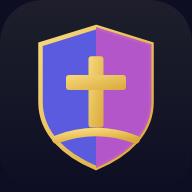
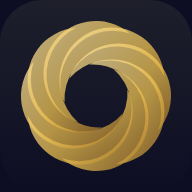
Brasão dourado, receitas explícitas, compartilhar arquivos de outros apps e manifesto de instalação
- Brasão: rosácea dourada de oito luas entrelaçadas (scripts/gerar-brasao.mjs
  gera public/brasao.svg e as pétalas do componente BrasaoPadrao); ícones PNG
  regenerados. Substitui o escudo com cruz.
- Receitas: alternância Despesa/Receita no topo de Lançar, título e dicas
  conforme a natureza, atalho "Lançar receita" na página do tipo Receitas,
  dica na aba Receitas do Orçamento. Receita prevista passa a usar o salário
  planejado no Orçamento quando houver (back-end e demo); teste novo.
- Compartilhar: Web Share Target no manifest (./compartilhar) + sw-compartilhar.js
  importado no service worker; PDF/imagem/texto recebidos de WhatsApp ou dos
  apps de luz e água abrem direto em Lançar (fatura, foto ou texto).
- Manifest: id e display_override para instalação como app no celular.
- Guia da família atualizado.

Claude-Session: https://claude.ai/code/session_0191uyXy852VQqaeRfUkqyRT

diff --git a/app/src/paginas/Lancar.tsx b/app/src/paginas/Lancar.tsx
@@ -12,6 +12,7 @@ import { competenciaDosFiltros, useBoot, useSessao } from '../store/sessao'
 import type { Categoria, ContaAPagar, Lancamento, LeituraExtraida, OrigemLancamento, RegraLoja } from '../tipos'
 import { dataBr, moeda } from '../util/formato'
 import { extrairDeTexto } from '../util/extrator'
+import { lerCompartilhado } from '../util/compartilhado'
 import { Cabecalho } from '../componentes/Cabecalho'
 import { Icone } from '../componentes/Icone'
 import { useLancarFrequentes } from '../hooks/useLancarFrequentes'
@@ -50,7 +51,8 @@ export default function Lancar() {
   const modoParam = params.get('modo') as Modo | null
   const ehDependente = usuario.perfil === 'Dependente'
 
-  const [modo, setModo] = useState<Modo>(() => (editando ? 'digitar' : modoParam && MODOS.includes(modoParam) && !(modoParam === 'fatura' && ehDependente) ? modoParam : 'foto'))
+  const [modo, setModo] = useState<Modo>(() => (editando ? 'digitar' : modoParam && MODOS.includes(modoParam) && !(modoParam === 'fatura' && ehDependente) ? modoParam : params.get('tipo') === 't_receitas' ? 'digitar' : 'foto'))
+  const [compartilhado, setCompartilhado] = useState<File | null>(null)
   const [rascunho, setRascunho] = useState<Rascunho>(() => (editando ? rascunhoDeLancamento(lancamentoEdicao) : rascunhoVazio(usuario.id, origemDe(modo))))
   const [sugestao, setSugestao] = useState<string | undefined>(() => (editando ? lancamentoEdicao.categoria_id : undefined))
   const [aba, setAba] = useState<AbaCardapio>(() => (editando ? abaDe(categorias.find((c) => c.id === lancamentoEdicao.categoria_id)) : params.get('tipo') === 't_receitas' ? 't_receitas' : 't_variaveis'))
@@ -63,6 +65,33 @@ export default function Lancar() {
   const categoria = useMemo(() => categorias.find((c) => c.id === rascunho.categoria_id), [categorias, rascunho.categoria_id])
   const categoriaSugerida = useMemo(() => categorias.find((c) => c.id === sugestao), [categorias, sugestao])
   const ehReceita = categoria ? categoria.tipo === 'receita' : aba === 't_receitas'
+
+  // Arquivo ou texto que chegou pelo "Compartilhar" de outro app (WhatsApp, app da luz, da água…).
+  useEffect(() => {
+    if (params.get('compartilhado') !== '1' || editando) return
+    let cancelado = false
+    lerCompartilhado().then(({ arquivo, texto }) => {
+      if (cancelado) return
+      if (arquivo && arquivo.type === 'application/pdf') {
+        if (ehDependente) { avisar('Faturas em PDF são lançadas por um adulto da família.', { tipo: 'info' }); return }
+        setModo('fatura'); setCompartilhado(arquivo)
+      } else if (arquivo && arquivo.type.startsWith('image/')) {
+        setModo('foto'); mudar({ origem: 'foto' }); setCompartilhado(arquivo)
+      } else if (texto) {
+        setModo('falar'); aoTextoVoz(texto)
+      } else {
+        avisar('Não recebi nenhum arquivo. Compartilhe de novo escolhendo o Finanças da Família.', { tipo: 'info' })
+      }
+    })
+    return () => { cancelado = true }
+  }, []) // eslint-disable-line react-hooks/exhaustive-deps
+
+  /** Alterna entre lançar despesa e receita: muda a aba do cardápio e limpa a categoria se não combinar. */
+  function escolherNatureza(receita: boolean) {
+    setAba(receita ? 't_receitas' : 't_variaveis')
+    if (categoria && (categoria.tipo === 'receita') !== receita) mudar({ categoria_id: '' })
+    if (receita && (modo === 'fatura' || modo === 'foto')) mudarModo('digitar')
+  }
 
   // ?editar= sem o lançamento no state (recarregou a página): volta ao Painel.
   useEffect(() => { if (editarId && !lancamentoEdicao) nav('/', { replace: true }) }, [editarId, lancamentoEdicao, nav])
@@ -157,9 +186,16 @@ export default function Lancar() {
 
   return (
     <>
-      <Cabecalho titulo={editando ? 'Editar lançamento' : 'Lançar despesa'} subtitulo={editando ? 'Corrija o que for preciso e salve.' : 'Escolha como lançar. O tipo de despesa vem do cardápio abaixo.'} voltarPara={editando ? '' : undefined} />
+      <Cabecalho titulo={editando ? 'Editar lançamento' : ehReceita ? 'Lançar receita' : 'Lançar despesa'} subtitulo={editando ? 'Corrija o que for preciso e salve.' : ehReceita ? 'Salário, renda extra, aluguel recebido, reembolso… A categoria vem do cardápio abaixo.' : 'Escolha como lançar. O tipo de despesa vem do cardápio abaixo.'} voltarPara={editando ? '' : undefined} />
 
-      {!editando && (
+      {!editando && !pronto && (
+        <div className="tabs" role="radiogroup" aria-label="Natureza do lançamento" style={{ maxWidth: 360 }}>
+          <button type="button" role="radio" aria-checked={!ehReceita} onClick={() => escolherNatureza(false)}><Icone nome="arrow-down" tamanho={16} /> Despesa</button>
+          <button type="button" role="radio" aria-checked={ehReceita} onClick={() => escolherNatureza(true)}><Icone nome="arrow-up" tamanho={16} /> Receita</button>
+        </div>
+      )}
+
+      {!editando && !ehReceita && (
         <div className="methods">
           {metodos.map((m) => (
             <button key={m.id} type="button" className="method" aria-pressed={modo === m.id} onClick={() => mudarModo(m.id)}>
@@ -185,7 +221,7 @@ export default function Lancar() {
         <div className="entry" style={{ gridTemplateColumns: 'minmax(0, 640px)' }}>
           <div className="card">
             <h3>Dados lidos da fatura <span className="sub">PDF ou foto</span></h3>
-            <EnviarFatura contasFixas={contas_fixas} competenciaPadrao={competenciaDosFiltros(filtros)} avisar={avisar} aoSalvar={aoSalvarFatura} autoAbrir={modoParam === 'fatura'} />
+            <EnviarFatura contasFixas={contas_fixas} competenciaPadrao={competenciaDosFiltros(filtros)} avisar={avisar} aoSalvar={aoSalvarFatura} autoAbrir={modoParam === 'fatura' && !compartilhado} arquivoInicial={compartilhado} />
           </div>
         </div>
       ) : (
@@ -193,7 +229,7 @@ export default function Lancar() {
           <DadosDespesa
             titulo={modo === 'foto' ? 'Dados lidos do cupom' : editando ? 'Dados do lançamento' : 'Dados da despesa'}
             lido={lido}
-            topo={modo === 'foto' ? <CapturaFoto aoLer={aoLerFoto} aoErro={(m) => avisar(m, { tipo: 'erro' })} autoAbrir={modoParam === 'foto'} /> : modo === 'falar' ? <CapturaVoz aoTexto={aoTextoVoz} /> : undefined}
+            topo={modo === 'foto' ? <CapturaFoto aoLer={aoLerFoto} aoErro={(m) => avisar(m, { tipo: 'erro' })} autoAbrir={modoParam === 'foto' && !compartilhado} arquivoInicial={compartilhado} /> : modo === 'falar' ? <CapturaVoz aoTexto={aoTextoVoz} /> : undefined}
             rascunho={rascunho}
             aoMudar={mudar}
             cartoes={cartoes}
@@ -211,7 +247,7 @@ export default function Lancar() {
               <p>
                 {podeConfirmar
                   ? <>Lançar <b className="num">{moeda(rascunho.valor)}</b> em <b>{categoria!.nome}</b>{rascunho.parcelas > 1 && rascunho.forma_pgto === 'crédito' && !editando && <> · <span className="num">{rascunho.parcelas}x</span></>}</>
-                  : !rascunho.valor ? 'Informe o valor para continuar.' : 'Escolha a despesa no cardápio.'}
+                  : !rascunho.valor ? 'Informe o valor para continuar.' : ehReceita ? 'Escolha a receita no cardápio.' : 'Escolha a despesa no cardápio.'}
               </p>
               <button type="button" className="btn btn-primary" onClick={confirmar} disabled={!podeConfirmar || salvando}>
                 <Icone nome="check" />{salvando ? 'Salvando…' : editando ? 'Salvar alterações' : 'Confirmar lançamento'}

diff --git a/app/src/index.css b/app/src/index.css
@@ -80,7 +80,7 @@ svg.i { width: 18px; height: 18px; stroke-width: 1.75; flex: none; }
 .brand { display: flex; gap: 12px; align-items: center; }
 .crest { width: 46px; height: 46px; border-radius: 50%; background: linear-gradient(145deg, #2A2B5E, #16173A); border: 1.5px solid var(--gold); display: grid; place-items: center; flex: none; overflow: hidden; }
 .crest svg, .crest img { width: 100%; height: 100%; object-fit: cover; }
-.crest svg { width: 30px; height: 30px; }
+.crest svg { width: 34px; height: 34px; }
 .brand h1 { font-size: 15px; font-weight: 700; line-height: 1.2; margin: 0; color: #fff; }
 .brand small { display: block; color: #8E90A2; font-size: 11.5px; font-weight: 400; }
 .verse { font-size: 11.5px; color: #8E90A2; font-style: italic; border-left: 2px solid var(--gold); padding-left: 10px; line-height: 1.5; margin: 0; }
@@ -203,7 +203,7 @@ svg.chart { width: 100%; height: auto; display: block; }
 .seg button[aria-pressed='true'] { background: var(--indigo); border-color: var(--indigo); color: #fff; }
 .tabs { display: flex; gap: 4px; background: var(--card-2); padding: 4px; border-radius: 10px; width: max-content; max-width: 100%; margin-bottom: 14px; overflow-x: auto; scrollbar-width: none; }
 .tabs button { padding: 6px 14px; border-radius: 7px; font-size: 13px; color: var(--muted); white-space: nowrap; min-height: 36px; }
-.tabs button[aria-selected='true'] { background: var(--indigo); color: #fff; }
+.tabs button[aria-selected='true'], .tabs button[aria-checked='true'] { background: var(--indigo); color: #fff; }
 .menu-group { margin-bottom: 16px; }
 .menu-group h4 { font-size: 12.5px; font-weight: 500; color: #C9CAD6; margin: 0 0 8px; display: flex; align-items: center; gap: 8px; }
 :root[data-tema='claro'] .menu-group h4 { color: var(--text); }
@@ -271,7 +271,7 @@ svg.chart { width: 100%; height: auto; display: block; }
 .capa .veu { position: absolute; inset: 0; background: linear-gradient(180deg, rgba(13, 14, 35, .55), rgba(13, 14, 35, .92)); }
 .capa .conteudo { position: relative; width: min(420px, 92vw); display: flex; flex-direction: column; align-items: center; gap: 14px; text-align: center; padding: 32px 0; }
 .capa .crest { width: 84px; height: 84px; }
-.capa .crest svg { width: 54px; height: 54px; }
+.capa .crest svg { width: 62px; height: 62px; }
 .capa h1 { font-size: 22px; font-weight: 700; margin: 0; color: #fff; }
 .capa .verse { border-left: 0; padding: 0; text-align: center; font-size: 12.5px; }
 .pin-dots { display: flex; gap: 14px; justify-content: center; margin: 6px 0; }

diff --git a/app/vite.config.ts b/app/vite.config.ts
@@ -11,15 +11,17 @@ export default defineConfig(({ mode }) => ({
     tailwindcss(),
     VitePWA({
       registerType: 'autoUpdate',
-      includeAssets: ['brasao.svg', 'icones/*.png'],
+      includeAssets: ['brasao.svg', 'icones/*.png', 'sw-compartilhar.js'],
       manifest: {
         name: 'Finanças da Família',
         short_name: 'Finanças',
         description: 'O app de finanças da nossa casa: lance gastos por foto, voz ou digitação, acompanhe as contas e os sonhos da família.',
         lang: 'pt-BR',
+        id: './',
         start_url: './',
         scope: './',
         display: 'standalone',
+        display_override: ['standalone', 'minimal-ui'],
         orientation: 'portrait',
         background_color: '#0D0E23',
         theme_color: '#0D0E23',
@@ -29,12 +31,20 @@ export default defineConfig(({ mode }) => ({
           { src: 'icones/icone-512.png', sizes: '512x512', type: 'image/png' },
           { src: 'icones/icone-512-maskable.png', sizes: '512x512', type: 'image/png', purpose: 'maskable' },
         ],
+        // "Compartilhar" de outros apps (WhatsApp, app da luz/água, galeria) direto para o Lançar.
+        share_target: {
+          action: './compartilhar',
+          method: 'POST',
+          enctype: 'multipart/form-data',
+          params: { title: 'titulo', text: 'texto', url: 'url', files: [{ name: 'arquivos', accept: ['image/*', 'application/pdf'] }] },
+        },
         shortcuts: [
           { name: 'Lançar gasto', short_name: 'Lançar', url: './#/lancar', icons: [{ src: 'icones/icone-192.png', sizes: '192x192' }] },
           { name: 'Caixa de Entrada', short_name: 'Caixa', url: './#/caixa', icons: [{ src: 'icones/icone-192.png', sizes: '192x192' }] },
         ],
       },
       workbox: {
+        importScripts: ['sw-compartilhar.js'],
         globPatterns: ['**/*.{js,css,html,svg,png,woff2}'],
         navigateFallback: mode === 'production' ? 'index.html' : undefined,
         runtimeCaching: [

diff --git a/app/public/sw-compartilhar.js b/app/public/sw-compartilhar.js
@@ -1,0 +1,26 @@
+/* Recebe o que outros apps compartilham com o Finanças da Família (Web Share Target).
+ * O manifest aponta o compartilhamento para "./compartilhar" (POST multipart). Guardamos o arquivo
+ * ou texto no Cache Storage e redirecionamos para a tela Lançar, que lê e processa. */
+self.addEventListener('fetch', (event) => {
+  const req = event.request
+  if (req.method !== 'POST') return
+  const url = new URL(req.url)
+  if (!url.pathname.endsWith('/compartilhar')) return
+  event.respondWith((async () => {
+    const base = url.pathname.replace(/compartilhar$/, '')
+    try {
+      const form = await req.formData()
+      const cache = await caches.open('compartilhados')
+      const arquivo = form.getAll('arquivos').find((a) => a && typeof a === 'object' && 'size' in a && a.size > 0)
+      if (arquivo) {
+        await cache.put('arquivo', new Response(arquivo, { headers: { 'Content-Type': arquivo.type || 'application/octet-stream', 'X-Nome': encodeURIComponent(arquivo.name || 'arquivo') } }))
+      } else {
+        await cache.delete('arquivo')
+      }
+      const texto = [form.get('titulo'), form.get('texto'), form.get('url')].filter((t) => typeof t === 'string' && t.trim()).join('\n')
+      if (texto) await cache.put('texto', new Response(texto, { headers: { 'Content-Type': 'text/plain;charset=utf-8' } }))
+      else await cache.delete('texto')
+    } catch (e) { /* segue para o app mesmo assim */ }
+    return Response.redirect(base + '#/lancar?compartilhado=1', 303)
+  })())
+})

diff --git a/app/src/componentes/lancar/EnviarFatura.tsx b/app/src/componentes/lancar/EnviarFatura.tsx
@@ -26,7 +26,9 @@ const FORMAS: Array<{ id: FormaPgto; nome: string }> = [
   { id: 'pix', nome: 'Pix' }, { id: 'débito', nome: 'Débito' }, { id: 'crédito', nome: 'Crédito' }, { id: 'dinheiro', nome: 'Dinheiro' }, { id: 'boleto', nome: 'Boleto' },
 ]
 
-export function EnviarFatura({ contasFixas, competenciaPadrao, avisar, aoSalvar, aoLer, autoAbrir }: {
+export function EnviarFatura({ contasFixas, competenciaPadrao, avisar, aoSalvar, aoLer, autoAbrir, arquivoInicial }: {
+  /** PDF ou imagem que chegou por compartilhamento de outro app: é lido ao montar. */
+  arquivoInicial?: File | null
   contasFixas: ContaFixa[]
   competenciaPadrao: string
   avisar: (texto: string, opcoes?: { tipo?: 'ok' | 'erro' | 'info' }) => void
@@ -45,6 +47,7 @@ export function EnviarFatura({ contasFixas, competenciaPadrao, avisar, aoSalvar,
   const m = <K extends keyof Campos>(k: K, v: string) => setC((a) => ({ ...a, [k]: v }))
   const ativas = contasFixas.filter((f) => f.ativa !== false)
   useEffect(() => { if (autoAbrir) inputRef.current?.click() }, [autoAbrir])
+  useEffect(() => { if (arquivoInicial) void aoEscolherArquivo(arquivoInicial) }, [arquivoInicial]) // eslint-disable-line react-hooks/exhaustive-deps
 
   function escolherContaFixa(id: string) {
     const cf = ativas.find((f) => f.id === id)

diff --git a/app/src/componentes/Brasao.tsx b/app/src/componentes/Brasao.tsx
@@ -1,9 +1,20 @@
-/** Brasão padrão (traço dourado sobre azul-noite) usado no círculo da barra lateral e na capa. */
-export function BrasaoPadrao({ tamanho = 30 }: { tamanho?: number }) {
+import { GRADIENTE_OURO, OPACIDADE_PETALA, PETALAS } from './brasao/rosacea.gerado'
+
+/**
+ * Brasão padrão: rosácea dourada de oito luas entrelaçadas (gerada por scripts/gerar-brasao.mjs),
+ * usada no círculo da barra lateral, na capa e como base dos ícones do app.
+ */
+export function BrasaoPadrao({ tamanho = 32 }: { tamanho?: number }) {
   return (
-    <svg viewBox="0 0 40 40" width={tamanho} height={tamanho} fill="none" stroke="#F2C552" strokeWidth="1.6" strokeLinejoin="round" aria-hidden="true">
-      <path d="M20 4 33 9v10c0 8.5-5.6 14.4-13 17-7.4-2.6-13-8.5-13-17V9z" />
-      <path d="M20 12v16M14 18h12" />
+    <svg viewBox="0 0 512 512" width={tamanho} height={tamanho} aria-hidden="true">
+      <defs>
+        <linearGradient id="brasao-ouro" x1="0" y1="0" x2="1" y2="1">
+          {GRADIENTE_OURO.map(([offset, cor]) => <stop key={offset} offset={offset} stopColor={cor} />)}
+        </linearGradient>
+      </defs>
+      <g fill="url(#brasao-ouro)" fillOpacity={OPACIDADE_PETALA}>
+        {PETALAS.map((d) => <path key={d} d={d} />)}
+      </g>
     </svg>
   )
 }

diff --git a/app/src/paginas/Tipo.tsx b/app/src/paginas/Tipo.tsx
@@ -115,7 +115,8 @@ function TelaTipo({ id }: { id: string }) {
   return (
     <>
       <EstilosLocais />
-      <Cabecalho titulo={tipo.nome} subtitulo={subtitulo} voltarPara="/" acoes={<Link className="btn btn-primary so-desktop" to="/lancar"><Icone nome="circle-plus" />Lançar</Link>} />
+      <Cabecalho titulo={tipo.nome} subtitulo={subtitulo} voltarPara="/" acoes={<Link className="btn btn-primary so-desktop" to={tipo.id === 't_receitas' ? '/lancar?tipo=t_receitas&modo=digitar' : '/lancar'}><Icone nome="circle-plus" />{tipo.id === 't_receitas' ? 'Lançar receita' : 'Lançar'}</Link>} />
+      {tipo.id === 't_receitas' && <Link className="btn btn-primary btn-block so-celular" to="/lancar?tipo=t_receitas&modo=digitar" style={{ marginBottom: 14 }}><Icone nome="circle-plus" />Lançar receita (salário, renda extra…)</Link>}
 
       {erro && <div className="card" style={{ marginBottom: 14, fontSize: 13, display: 'flex', gap: 10, alignItems: 'center' }}><Icone nome="circle-alert" style={{ color: 'var(--red)' }} />{erro}<button type="button" className="btn btn-ghost btn-sm" style={{ marginLeft: 'auto' }} onClick={() => setVersao((v) => v + 1)}>Tentar de novo</button></div>}
       {!resumo && !erro && <Carregando />}

diff --git a/app/src/componentes/lancar/CapturaFoto.tsx b/app/src/componentes/lancar/CapturaFoto.tsx
@@ -8,10 +8,12 @@ import type { LeituraExtraida } from '../../tipos'
 import { Icone } from '../Icone'
 import { ehUrlNfce, lerQrCode } from './comuns'
 
-export function CapturaFoto({ aoLer, aoErro, autoAbrir }: {
+export function CapturaFoto({ aoLer, aoErro, autoAbrir, arquivoInicial }: {
   aoLer: (leitura: LeituraExtraida, previa: string) => void
   aoErro: (mensagem: string) => void
   autoAbrir?: boolean
+  /** Imagem que chegou por compartilhamento de outro app: é processada ao montar. */
+  arquivoInicial?: File | null
 }) {
   const inputRef = useRef<HTMLInputElement>(null)
   const [previa, setPrevia] = useState<string | null>(null)
@@ -19,6 +21,7 @@ export function CapturaFoto({ aoLer, aoErro, autoAbrir }: {
   const [mensagem, setMensagem] = useState('')
 
   useEffect(() => { if (autoAbrir) inputRef.current?.click() }, [autoAbrir])
+  useEffect(() => { if (arquivoInicial) void processar(arquivoInicial) }, [arquivoInicial]) // eslint-disable-line react-hooks/exhaustive-deps
 
   async function processar(arquivo: File) {
     setLendo(true)

diff --git a/app/src/util/compartilhado.ts b/app/src/util/compartilhado.ts
@@ -1,0 +1,20 @@
+/** Lê (e apaga) o que o service worker guardou ao receber um compartilhamento de outro app. */
+export interface Compartilhado { arquivo: File | null; texto: string }
+
+export async function lerCompartilhado(): Promise<Compartilhado> {
+  const vazio: Compartilhado = { arquivo: null, texto: '' }
+  if (typeof caches === 'undefined') return vazio
+  try {
+    const cache = await caches.open('compartilhados')
+    const [ra, rt] = await Promise.all([cache.match('arquivo'), cache.match('texto')])
+    let arquivo: File | null = null
+    if (ra) {
+      const blob = await ra.blob()
+      const nome = decodeURIComponent(ra.headers.get('X-Nome') || 'arquivo')
+      arquivo = new File([blob], nome, { type: ra.headers.get('Content-Type') || blob.type })
+    }
+    const texto = rt ? (await rt.text()).trim() : ''
+    await Promise.all([cache.delete('arquivo'), cache.delete('texto')])
+    return { arquivo, texto }
+  } catch { return vazio }
+}

diff --git a/app/src/api/mock.ts b/app/src/api/mock.ts
@@ -337,9 +337,9 @@ function resumoMes(b: Banco, uid: string, comp: string, filtroUsuario?: string):
     r.por_categoria[o.categoria_id] = { realizado: 0, orcado: o.valor_planejado }
     if (c) { r.por_grupo[c.grupo_id].orcado += o.valor_planejado; r.por_tipo[c.tipo_id].orcado += o.valor_planejado }
   }
-  // receita prevista = salários do mês anterior (ou do próprio mês)
+  // receita prevista = planejado no Orçamento para receitas; senão, salários do mês anterior (ou padrão da demo)
   const recAnt = ativos(b.lancamentos).filter((l) => l.competencia === somarMeses(comp, -1) && l.tipo === 'receita' && l.status === 'confirmado').reduce((s, l) => s + l.valor, 0)
-  r.por_tipo.t_receitas.orcado = recAnt || 16300
+  r.por_tipo.t_receitas.orcado = r.por_tipo.t_receitas.orcado > 0 ? r.por_tipo.t_receitas.orcado : recAnt || 16300
   for (const l of ls) {
     const c = catMap.get(l.categoria_id)
     if (!c) continue

diff --git a/app/src/componentes/brasao/rosacea.gerado.ts b/app/src/componentes/brasao/rosacea.gerado.ts
@@ -1,0 +1,13 @@
+// Gerado por scripts/gerar-brasao.mjs — não edite à mão.
+export const PETALAS: readonly string[] = [
+  "M209.7 328.1A140.0 140.0 0 1 1 347.3 89.9A140.0 140.0 0 0 0 209.7 328.1Z",
+  "M172.3 274.3A140.0 140.0 0 1 1 438.0 203.1A140.0 140.0 0 0 0 172.3 274.3Z",
+  "M183.9 209.7A140.0 140.0 0 1 1 422.1 347.3A140.0 140.0 0 0 0 183.9 209.7Z",
+  "M237.7 172.3A140.0 140.0 0 1 1 308.9 438.0A140.0 140.0 0 0 0 237.7 172.3Z",
+  "M302.3 183.9A140.0 140.0 0 1 1 164.7 422.1A140.0 140.0 0 0 0 302.3 183.9Z",
+  "M339.7 237.7A140.0 140.0 0 1 1 74.0 308.9A140.0 140.0 0 0 0 339.7 237.7Z",
+  "M328.1 302.3A140.0 140.0 0 1 1 89.9 164.7A140.0 140.0 0 0 0 328.1 302.3Z",
+  "M274.3 339.7A140.0 140.0 0 1 1 203.1 74.0A140.0 140.0 0 0 0 274.3 339.7Z"
+]
+export const OPACIDADE_PETALA = 0.72
+export const GRADIENTE_OURO: readonly (readonly [string, string])[] = [["0","#FFE7A3"],["0.55","#F2C552"],["1","#A8782A"]]

diff --git a/app/src/componentes/config/Orcamento.tsx b/app/src/componentes/config/Orcamento.tsx
@@ -108,6 +108,7 @@ export function Orcamento() {
         <div className="tabs" role="tablist">
           {tipos.map((t) => <button key={t.id} role="tab" aria-selected={aba === t.id} onClick={() => setAba(t.id as typeof aba)}>{t.nome}</button>)}
         </div>
+        {aba === 't_receitas' && <p className="sub" style={{ margin: '0 0 10px' }}>Informe aqui o salário e as outras entradas previstas do mês. O Painel usa esses valores como "Previsto" das receitas; sem eles, usa o que entrou no mês anterior.</p>}
         {carregando ? <Carregando texto="Lendo o orçamento…" /> : grupos.map((g) => (
           <div key={g.id} className="menu-group" style={{ ['--c' as string]: corVar(g.cor) }}>
             <h4>{g.nome}</h4>
